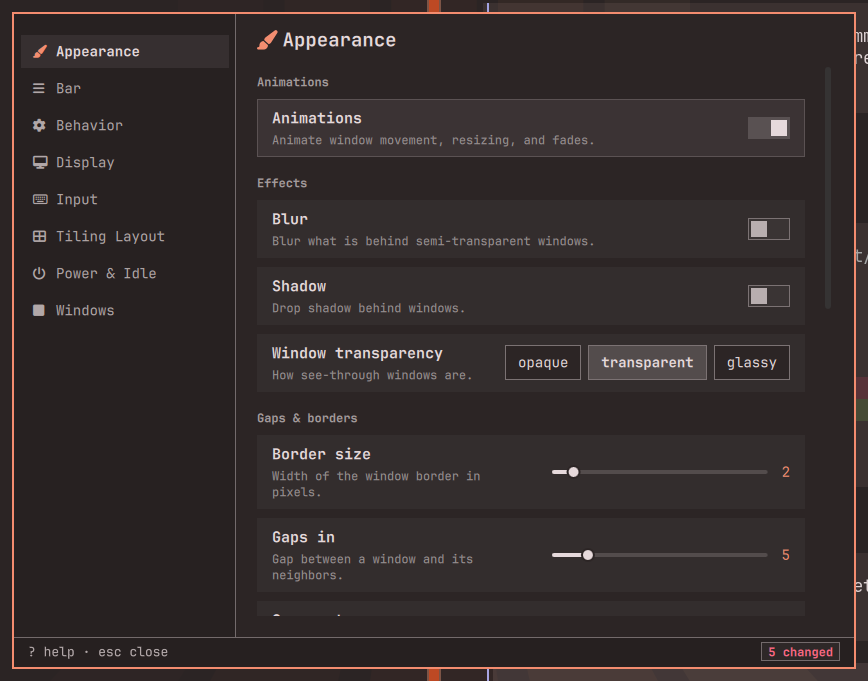
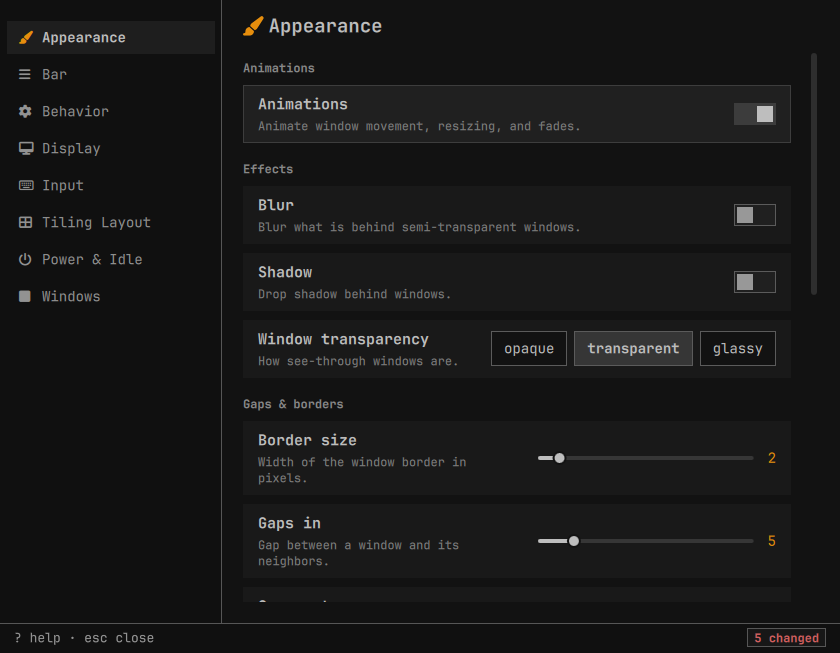
release: 0.2.3 — refresh the marketplace listing
- Rewrite the description to lead with the concrete window/CLI/MCP shape and
  drop the 'undoable' claim in favor of 'checked before it lands'.
- Rebuild the hero and banner on Matte Black, with the orange theme accent and
  a border framing the settings window in the preview.
- Capture the preview window tightly (no desktop margin) and add a compose
  step so preview.png is reproducible.

diff --git a/README.md b/README.md
@@ -1,7 +1,5 @@
 # Omaset
 
-> **A settings manager for Omarchy. Designed for the age of agents but usable by humans.**
-
 <p align="center">
   <a href="LICENSE"><img src="https://img.shields.io/badge/license-MIT-f38d70?style=flat-square" alt="License: MIT"></a>
   <img src="https://img.shields.io/github/v/tag/b2amedina/omaset?style=flat-square&color=f38d70&label=version" alt="Version">
@@ -15,13 +13,13 @@
 
 Your config files are the source of truth. Omaset puts every setting within reach — of you, and of your agent. Update one value where it lives. Everything else stays as you left it. See what's changed. Take it back.
 
-**Welcome the agents.** Your agent gets the same settings you do, as tools it can call. It searches for a setting by name, reads what it's set to, changes it. Undoes it if you need to. No parsing files, no guessing, no shell incantations — just the same settings, in front of both of you.
+**Welcome the agents.** Your agent gets the same settings you do, as tools it can call. It searches for a setting by name, reads what it's set to, changes it. No parsing files, no guessing, no shell incantations — just the same settings, in front of both of you.
 
 **Made for 4.5.** The new desktop is more familiar to people coming from Windows or macOS, used to a settings panel. Omaset does the same for settings — a view for humans, while your agent keeps working directly with the files.
 
 **Speaks your language.** Every label, description, and option in all 50 Omarchy languages.
 
-**Safe to change.** Every change is checked, logged, and reversible: `changed` shows what's not stock, `history` shows how it got there, `undo` takes it back.
+**Checked before it lands.** Every change is validated against the live config, and Omaset puts it back if Hyprland won't load. `changed` shows what's not stock, `history` shows how it got there.
 
 **No magic numbers.** Your configuration file still says `300` — that's seconds to the computer. Omaset shows you `5 min` — that's how you think about it. Same for times and every other choice. Made readable for humans, not just machines.
 
@@ -65,7 +63,7 @@ Covers appearance, layout, bar, input, windows, power, display, and behavior. On
 
 - **One place to see it all.** Every panel, searchable.
 - **Three ways in, same settings.** Agent, window, command line.
-- **Easy to undo.** Every change is checked and logged.
+- **Checked before it lands.** Validation, then applied in place — nothing rewritten wholesale.
 - **Styled to match.** Colors and shapes come from your theme.
 
 <p align="center">

diff --git a/CHANGELOG.md b/CHANGELOG.md
@@ -1,7 +1,10 @@
 # Changelog
 
-## Unreleased
+## 0.2.3 — 2026-11-10
 
+- Marketplace listing refreshed: the description now leads with the concrete
+  window/CLI/MCP line, the slogan moves to the banner, the preview image drops
+  prose entirely, and the copy swaps "undoable" for "checked before it lands".
 - `shell.json` is no longer rewritten through its own `> .tmp` + `mv` dance.
   The jq pipeline's output is validated as a whole JSON document and committed
   through the shared `util.write_file()` atomic writer, so a private
